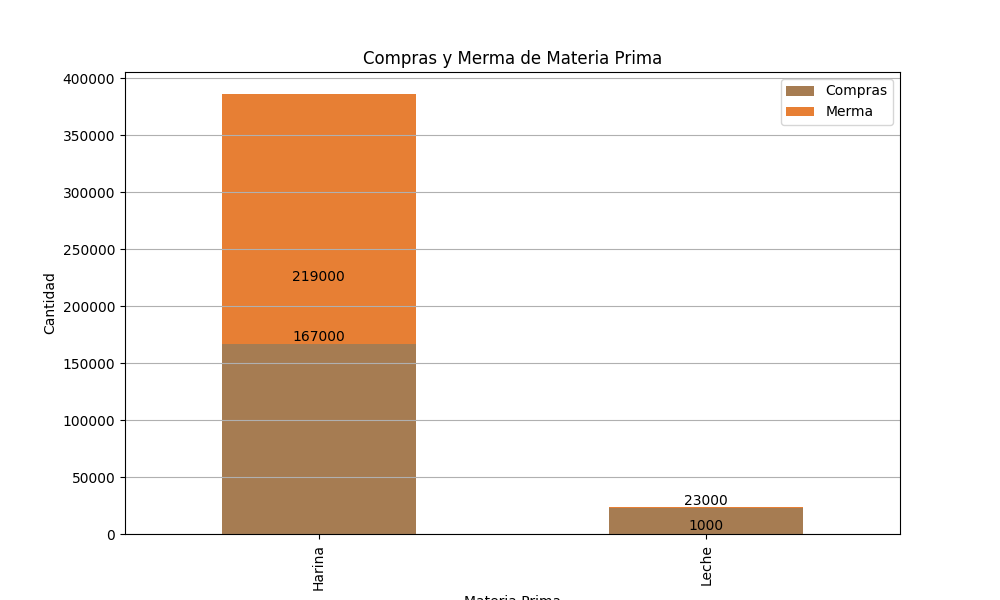
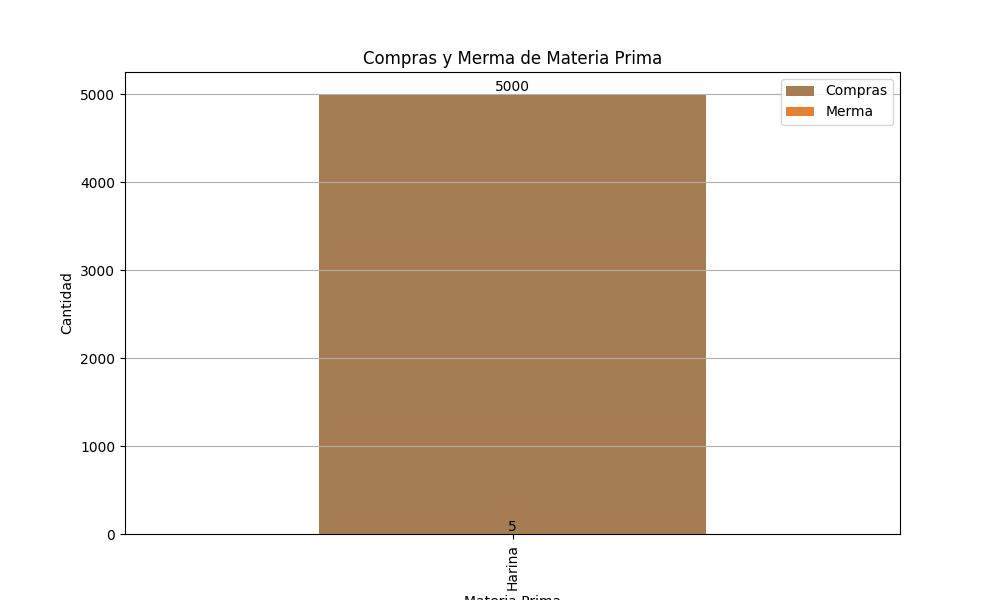
Actualización de modulos ventas, compras

diff --git a/templates/compras.html b/templates/compras.html
@@ -33,7 +33,6 @@
                     <th>Fecha Vencimiento</th>
                     <th>Proveedor</th>
                     <th>Cantidad</th>
-                    <th>Precio</th>
                     <th>Total</th>
                 </tr>
             </thead>
@@ -41,18 +40,17 @@
                 {% for compra in compras %}
                     <tr>
                         <td>{{ compra.materia_prima.nombreMateria }}</td>
-                        <td>{{ compra.fechaCompra }}</td>
-                        <td>{{ compra.fechaVencimiento }}</td>
+                        <td>{{ compra.fecha_compra }}</td>
+                        <td>{{ compra.fecha_vencimiento }}</td>
                         <td>{{ compra.materia_prima.proveedor.nombreProveedor }}</td>
                         <td>{{ compra.cantidadExistentes | float }}</td>
                         <td>{{ compra.materia_prima.precioCompra | float }}</td>
-                        <td>{{ (compra.cantidadExistentes | float) * (compra.materia_prima.precioCompra | float) }}</td>
                     </tr>
                 {% endfor %}
             </tbody>
             <tfoot>
                 <tr>
-                    <td colspan="6" class="text-end"><strong>Total:</strong></td>
+                    <td colspan="5" class="text-end"><strong>Total:</strong></td>
                     <td class="text-end"><strong id="total">0.00</strong></td>
                 </tr>
             </tfoot>
@@ -60,7 +58,7 @@
     </div>
 
     <div class="mt-5" id="grafica-container" style="display: none;">
-        <h2>Galletas más Vendidas</h2>
+        <h2>Materia Prima más Comprada</h2>
         <img src="{{ img_url }}" alt="Gráfica de Compras" class="img-fluid">
     </div>
 

diff --git a/templates/ganancias.html b/templates/ganancias.html
@@ -32,25 +32,30 @@
       <img src="{{ url_for('static', filename='total_ventas_compras_dona.png') }}" alt="Gráfica Circular" class="img-fluid">
     </div>
   {% endif %}
-  {% if ganancias is none %}
-  <div class="mt-3 ">
-    <strong>Ganancias: $0</strong>
+  <div class="row justify-content-center mt-3">
+    <div class="col-md-6 text-center">
+      {% if ganancias is none %}
+        <strong style="color: red; font-size: 24px;">Ganancias: $0</strong>
+      {% elif ganancias <= 0 %}
+        <strong style="color: red; font-size: 24px;">Ganancias: ${{ ganancias }}</strong>
+      {% else %}
+        <strong style="color: green; font-size: 24px;">Ganancias: ${{ ganancias }}</strong>
+      {% endif %}
+    </div>
   </div>
-{% else %}
-  <div class="mt-3 ">
-    <strong>Ganancias: ${{ ganancias }}</strong>
-  </div>
-{% endif %}
+  
+  
 
 </div>
 <div class="row mt-3">
-  <div class="col-md-6">
+  <div class="col-md-3">
     <button onclick="toggleGrafica()" class="btn btn-primary btn-block">Mostrar/Ocultar Gráfica</button>
   </div>
-  <div class="col-md-6">
+  <div class="col-md-3">
     <a href="{{ url_for('ventas') }}" class="btn btn-primary btn-block">Ventas</a>
   </div>
 </div>
+
 <script src="{{ url_for('static', filename='js/ganancias.js') }}"></script>
 
 {% endblock %}

diff --git a/templates/dashboard_ventas.html b/templates/dashboard_ventas.html
@@ -23,11 +23,9 @@
       </div>
     </div>
     <button type="submit" class="btn btn-primary mt-4">Mostrar Ventas</button>
-      
-    
   </form>
 
-  {% if ventas %}
+  {% if ventas and ventas_detalle %}
     <div class="mt-5">
       <h2>Total de ventas: {{ ventas }}</h2>
     </div>
@@ -56,19 +54,23 @@
         </table>
       </div>
     </div>
-      
+    
     <div class="mt-5" id="grafica-container" style="display: none;">
       <h2>Galletas más Vendidas</h2>
       <img id="grafica-img" src="{{ url_for('static', filename='top_10_productos_mas_vendidos.png') }}" alt="Top 10 de Galletas más Vendidas" class="img-fluid">
     </div>
     
     <div class="row mt-3">
-      <div class="col-md-6">
+      <div class="col-md-3">
         <button onclick="toggleGrafica()" class="btn btn-primary">Mostrar/Ocultar Gráfica</button>
       </div>
-      <div class="col-md-6">
+      <div class="col-md-3">
         <a href="{{ url_for('ganancias') }}" class="btn btn-primary float-end">Ganancias</a>
       </div>
+    </div>
+  {% else %}
+    <div class="alert alert-warning mt-5" role="alert">
+      No hay ventas para la fecha seleccionada.
     </div>
   {% endif %}
 </div>

diff --git a/static/js/compras.js b/static/js/compras.js
@@ -34,7 +34,7 @@ $(document).ready(function() {
         var total = 0;
         table.rows({search: 'applied'}).every(function() {
             var rowData = this.data();
-            var totalFila = parseFloat(rowData[6]);
+            var totalFila = parseFloat(rowData[5]);
             total += totalFila;
         });
 

diff --git a/static/js/puntoVenta.js b/static/js/puntoVenta.js
@@ -3,7 +3,6 @@ let subtotales = {};
 
 function agregarAlCarrito(event, idProducto, nombreProducto, precioProducto) {
     precioGalleta = precioProducto;
-    const precioGalleta = preciosGalleta[idProducto] || precioProducto;
     console.log(precioGalleta);
     event.preventDefault();
     

diff --git a/main.py b/main.py
@@ -1758,9 +1758,13 @@ def mostrar_compras():
 def obtener_compras_y_grafica(tipo_busqueda=None, fecha_seleccionada=None):
     fecha_inicio, fecha_fin = calcular_rango_fechas(tipo_busqueda, fecha_seleccionada)
 
-    compras = Detalle_materia_prima.query.filter(Detalle_materia_prima.fechaCompra.between(fecha_inicio, fecha_fin)).all()
+    compras = Compra.query.join(Detalle_materia_prima).filter(Detalle_materia_prima.fechaCompra.between(fecha_inicio, fecha_fin)).all()
     for compra in compras:
         compra.materia_prima = MateriaPrima.query.get(compra.idMateriaPrima)
+        detalle = Detalle_materia_prima.query.filter_by(idDetalle_materia_prima=compra.idDetalle_materia_prima).first()
+        if detalle:
+            compra.fecha_compra = detalle.fechaCompra.strftime('%Y-%m-%d') if detalle.fechaCompra else None
+            compra.fecha_vencimiento = detalle.fechaVencimiento.strftime('%Y-%m-%d') if detalle.fechaVencimiento else None
     
     # Obtener mermas de cada materia prima
     mermas = merma_inventario.query.all()
@@ -1776,9 +1780,9 @@ def obtener_compras_y_grafica(tipo_busqueda=None, fecha_seleccionada=None):
         nombre = compra.materia_prima.nombreMateria
         cantidad_comprada = compra.cantidadExistentes
         cantidad_merma = mermas_dict.get(compra.materia_prima.idMateriaPrima, 0)
-        data.append([nombre, cantidad_comprada, cantidad_merma])
+        data.append([nombre, cantidad_comprada, cantidad_merma, compra.fecha_compra, compra.fecha_vencimiento])
     
-    df = pd.DataFrame(data, columns=['Nombre', 'Compras', 'Merma'])
+    df = pd.DataFrame(data, columns=['Nombre', 'Compras', 'Merma', 'Fecha_Compra', 'Fecha_Vencimiento'])
     df = df.groupby('Nombre').sum().reset_index()
 
     if df.empty:
@@ -1803,6 +1807,7 @@ def obtener_compras_y_grafica(tipo_busqueda=None, fecha_seleccionada=None):
     img_url = url_for('static', filename='img/compras.png')
     
     return compras, img_url
+
 
 def calcular_rango_fechas(tipo_busqueda=None, fecha_seleccionada=None):
     if tipo_busqueda == 'dia':
@@ -1863,8 +1868,11 @@ def ventas():
 
     # Si la solicitud es GET, mostrar todas las ventas
     total_ventas, ventas_detalle, df_ventas_agrupado = calcular_total_tipoventas()
+    
+    if total_ventas is None:
+        flash("No hay ventas registradas.", "warning")
+    
     return render_template('dashboard_ventas.html', form=form, ventas=total_ventas, ventas_detalle=ventas_detalle, df_ventas_agrupado=df_ventas_agrupado)
-
 
 def calcular_total_tipoventas(tipo_seleccion=None, fecha_seleccionada=None):
     total_ventas = 0.0
@@ -2049,8 +2057,8 @@ def calcular_ganancias(tipo_seleccion=None, fecha_seleccionada=None):
 
     # Crear la gráfica de dona con los segmentos de ventas y compras
     plt.figure(figsize=(10, 6))  # Ajustar el tamaño de la figura
-    plt.pie([total_ventas, total_compras], labels=['Total Ventas\nCantidad: {}'.format(total_ventas), 'Total Compras\nCantidad: {}'.format(total_compras)], startangle=140, counterclock=False, colors=['green', 'red'], wedgeprops=dict(width=0.4))
-    plt.title('Total de Ventas y Compras')
+    plt.pie([total_ventas, total_compras], labels=['Ventas\nCantidad: {}'.format(total_ventas), 'Gastos\nCantidad: {}'.format(total_compras)], startangle=140, counterclock=False, colors=['green', 'red'], wedgeprops=dict(width=0.4))
+    plt.title('TentaCrisp S.A de CV\nEstado de resultados')
 
     # Agregar un círculo en el centro para hacerla una dona
     centre_circle = plt.Circle((0, 0), 0.70, fc='white')
@@ -2100,30 +2108,93 @@ def calcular_total_ventas(fecha_inicio=None, fecha_fin=None):
     return total_ventas if total_ventas is not None else 0.0
 
 def calcular_total_compras(fecha_inicio=None, fecha_fin=None):
-    if fecha_inicio is not None and fecha_fin is not None:
-        total_compras = db.session.query(func.sum(Detalle_materia_prima.cantidadExistentes * MateriaPrima.precioCompra)).join(MateriaPrima).filter(Detalle_materia_prima.fechaCompra.between(fecha_inicio, fecha_fin)).scalar()
-    else:
-        total_compras = db.session.query(func.sum(Detalle_materia_prima.cantidadExistentes * MateriaPrima.precioCompra)).join(MateriaPrima).scalar()
-
-    if total_compras is None:
-        total_compras = 0.0
-
-    print("Total de compras:", total_compras)
-
-    total_merma_galleta = 0.0
-    productos = db.session.query(Producto.idProducto).all()
-
-    for producto in productos:
-        id_producto = producto[0]
-        merma_producto = db.session.query(func.sum(Merma.cantidadMerma * Producto.precioVenta)).join(Producto, Merma.idProducto == Producto.idProducto).filter(Producto.idProducto == id_producto).scalar()
-        if merma_producto is not None:
-            total_merma_galleta += merma_producto
-
-    print("Total de merma:", total_merma_galleta)
-
-    total_compras += total_merma_galleta
+    # Paso 1: Calcular el total de compras de materia prima
+    query_compras = db.session.query(func.sum(MateriaPrima.precioCompra))
     
+    if fecha_inicio is not None and fecha_fin is not None:
+        query_compras = query_compras.select_from(Detalle_materia_prima).join(MateriaPrima).filter(Detalle_materia_prima.fechaCompra.between(fecha_inicio, fecha_fin))
+    else:
+        query_compras = query_compras.select_from(MateriaPrima)
+    
+    total_compras_materia_prima = query_compras.scalar()
+
+    if total_compras_materia_prima is None:
+        total_compras_materia_prima = 0.0
+
+    print("Total de compras de materia prima:", total_compras_materia_prima)
+
+    # Paso 2: Calcular el total de merma de producto
+    query_merma_producto = db.session.query(func.sum(Merma.cantidadMerma * Producto.precioVenta))
+    
+    if fecha_inicio is not None and fecha_fin is not None:
+        query_merma_producto = query_merma_producto.join(Producto, Merma.idProducto == Producto.idProducto).filter(Merma.fechaMerma.between(fecha_inicio, fecha_fin))
+    
+    total_merma_producto = query_merma_producto.scalar()
+
+    if total_merma_producto is None:
+        total_merma_producto = 0.0
+
+    print("Total de merma de producto:", total_merma_producto)
+
+    # Paso 3: Calcular el total de merma de inventario
+    total_merma_inventario = calcular_valor_total_mermaInventario(fecha_inicio, fecha_fin)
+    
+    print("Total de merma de inventario:", total_merma_inventario)
+    
+    total_precio_produccion= calcular_precio_produccion_galletas_vendidas(fecha_inicio, fecha_fin)
+    
+    print("Total de precio de produccion:", total_precio_produccion)
+
+    # Paso 4: Sumar los totales de compras y merma
+    total_compras = total_compras_materia_prima + total_merma_producto + total_merma_inventario + total_precio_produccion
+
+    print("Total de compras con merma:", total_compras)
+
     return total_compras
+
+def calcular_valor_total_mermaInventario(fecha_inicio=None, fecha_fin=None):
+    # Paso 1: Obtener todas las merma de inventario dentro del rango de fechas
+    merma = merma_inventario.query.filter(merma_inventario.fechaMerma.between(fecha_inicio, fecha_fin)).all()
+
+    # Paso 2: Calcular la cantidad total de merma
+    cantidad_total_merma = sum(m.cantidadMerma for m in merma)
+
+    # Paso 3: Calcular el precio total de las compras de materia prima
+    compras = Compra.query.join(Detalle_materia_prima).all()
+    precio_total_compras = sum(MateriaPrima.query.filter_by(idMateriaPrima=compra.idMateriaPrima).first().precioCompra for compra in compras)
+
+    # Paso 4: Calcular el precio por unidad de materia prima
+    if precio_total_compras != 0:
+        precio_por_unidad = precio_total_compras / sum(compra.cantidadExistentes for compra in compras)
+    else:
+        precio_por_unidad = 0.0
+
+    # Paso 5: Calcular el valor total de la merma
+    valor_total_merma = cantidad_total_merma * precio_por_unidad
+
+    return valor_total_merma
+
+def calcular_precio_produccion_galletas_vendidas(fecha_inicio=None, fecha_fin=None):
+
+    # Filtrar las ventas por fecha
+    ventas = Venta.query.filter(Venta.fechaVenta.between(fecha_inicio, fecha_fin)).all()
+
+    # Inicializar el precio total de producción de las galletas vendidas
+    precio_produccion_galletas_vendidas = 0.0
+
+    # Iterar sobre cada venta para obtener los detalles de venta y calcular el precio total de producción
+    for venta in ventas:
+        detalles_venta = DetalleVenta.query.filter_by(idVenta=venta.idVenta).all()
+        for detalle in detalles_venta:
+            producto = Producto.query.get(detalle.idProducto)
+            precio_produccion_galletas_vendidas += detalle.cantidad * producto.precioProduccion
+
+    return precio_produccion_galletas_vendidas
+
+
+
+
+
 
 @app.route('/punto_de_venta')
 @login_required

diff --git a/config.py b/config.py
@@ -5,7 +5,7 @@ def encrypt(cadena):
 def decrypt(cadena_ofuscada):
     return base64.b64decode(cadena_ofuscada.encode()).decode()
 
-cadena_conexion = 'mysql+pymysql://EdwinRivera:Yovani2002@127.0.0.1/don_galletoV2'
+cadena_conexion = 'mysql+pymysql://Diego:Diego1234_root@127.0.0.1/don_galletoV2'
 
 cadena_ofuscada = encrypt(cadena_conexion)
 cadena_descifrada = decrypt(cadena_ofuscada)
